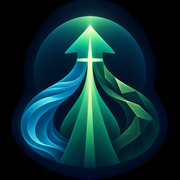
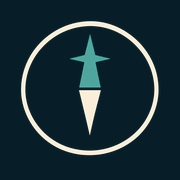
Actualizar Regla de Vida 2.0 con identidad católica

diff --git a/index.html b/index.html
@@ -24,12 +24,14 @@
     html,body{background:#071418}.app{background:radial-gradient(circle at 50% -8%,#113c49 0,#071418 30rem)}.hero{background:linear-gradient(145deg,#061116 0%,#0b3442 52%,#176b83 100%);box-shadow:0 24px 55px rgba(0,8,12,.48)}.hero:after{background:radial-gradient(circle,rgba(66,210,173,.26),transparent 67%)}.hero .eyebrow{color:#87e2d1}.focus{background:rgba(255,255,255,.075)}
     .way.t{background:linear-gradient(145deg,#155443,#2b9a73)}.way.u{background:linear-gradient(145deg,#155168,#2584aa)}.way.c{background:linear-gradient(145deg,#153f46,#347f77)}
     .primary{background:linear-gradient(135deg,#1b708e,#258fa8);box-shadow:0 10px 22px rgba(0,10,14,.34)}.secondary,.action,.combat,.card,input,textarea,select,.emergency-option{color:var(--ink)}.sub,.action small,.combat small,.empty,.date{color:var(--muted)}.navbtn.active{background:#113c45;color:#79d8cf}.bottom{background:rgba(7,20,24,.92);border-color:#1c3c42}.training{background:linear-gradient(145deg,#061116,#124551)}.training .eyebrow,.training dt{color:#80ddd0}.result{background:#102f2c;color:#dff8f1}.saved{background:#10342c;color:#8ee3c8}.timer-ring{background:conic-gradient(var(--blue2) var(--progress,0%),var(--surface2) 0)}.manual-body{color:#c8dcda}.sheet-panel{background:var(--bg)}.handle{background:#31545a}.toast{background:#0d3037}.settings{background:#12343b;color:#d9f4f1}.tag{color:#a9c2c0}
+    .skip{position:fixed;left:12px;top:12px;z-index:200;transform:translateY(-160%);background:#fff;color:#071418;padding:10px 14px;border-radius:10px;font-weight:800}.skip:focus{transform:none}
   </style>
 </head>
 <body>
+<a class="skip" href="#today">Saltar al contenido</a>
 <div class="app">
   <section class="screen active" id="today">
-    <div class="topline"><span class="brand">Regla de Vida</span><button class="settings" aria-label="Editar mi frente" onclick="openSheet('setup')">✦</button></div>
+    <div class="topline"><span class="brand">Regla de Vida</span><button class="settings" aria-label="Editar mi frente" onclick="openSheet('setup')">✎</button></div>
     <article class="card hero"><div class="eyebrow">Tu siguiente paso</div><h1>Ahora</h1><p>Una sola batalla. Una sola respuesta buena.</p><div class="focus"><small>Frente actual</small><strong id="todayFront">Sin elegir</strong><span id="todayVirtue">Elige el frente que quieres trabajar</span><button onclick="openSheet('setup')">Editar</button></div></article>
     <div class="section-title"><h2>Las tres vías</h2><span>¿Dónde estás?</span></div>
     <div class="ways"><button class="way t" onclick="openWay('tregua')"><small>I · SUELO</small><b>Tregua</b><span>Recuperar energía y margen</span></button><button class="way u" onclick="openWay('umbral')"><small>II · PUENTE</small><b>Umbral</b><span>Pasar de saber a hacer</span></button><button class="way c" onclick="openWay('combate')"><small>III · FRENTE</small><b>Combate</b><span>Formar virtud ante el patrón</span></button></div>
@@ -64,15 +66,15 @@
   <section class="screen" id="manual">
     <div class="topline"><span class="brand">Manual</span><span class="date">Comprender mejor</span></div><h1>Conocimiento</h1><p class="sub">La explicación está aquí cuando la necesites. La práctica diaria no depende de leerlo todo.</p><input class="search" id="manualSearch" type="search" placeholder="Buscar: acedia, descanso, ira…" aria-label="Buscar en el manual">
     <div id="manualContent">
-      <details class="card manual-section" data-search="tregua descanso cansancio recuperación evasión sueño"><summary>Tregua · descanso y recuperación</summary><div class="manual-body"><span class="tag">Regla</span><span class="tag">Fundamentos</span><h3>Descansar no es simplemente no trabajar</h3><p>Descansar es darle a cada parte la pausa que necesita. La fatiga física pide recuperación corporal; la cognitiva, menos carga; la emocional, procesar y ordenar; la espiritual, sentido, silencio y orientación.</p><h3>Descanso real y evasión</h3><p>La prueba es sencilla: el descanso real deja más claridad o más presencia. La evasión suele dejar dispersión, anestesia o necesidad de seguir consumiendo estímulos.</p><h3>Los cuatro mecanismos</h3><p>Desconexión psicológica, relajación, maestría y control. También existe el descanso gratuito: familia, juego, paseo, lectura, conversación, oración y contemplación no necesitan justificarse por el rendimiento posterior.</p><h3>Sueño y ciencia</h3><p>La regularidad, la luz diurna, la cafeína tardía, el alcohol, la rumia y el contenido activante de las pantallas pueden influir. Estas explicaciones ayudan a comprender, pero no forman parte del recorrido diario de la Regla.</p></div></details>
-      <details class="card manual-section" data-search="umbral procrastinación fricción emoción sobrecarga akrasia acedia cinco minutos"><summary>Umbral · las seis capas</summary><div class="manual-body"><span class="tag">Diagnóstico</span><span class="tag">Acción</span><h3>La distancia entre saber y hacer</h3><p>El Umbral no busca que aparezcan ganas. Traduce una intención en el primer gesto visible mediante tres movimientos: ofrecer, nombrar y empezar.</p><h3>Las seis capas</h3><p><strong>Fricción:</strong> hay demasiados pasos previos. <strong>Regulación emocional:</strong> evitas la emoción que despierta la tarea. <strong>Descuento temporal:</strong> el alivio inmediato pesa más que el bien futuro. <strong>Sobrecarga:</strong> hay demasiadas cosas abiertas. <strong>Akrasia:</strong> eliges contra tu propio juicio. <strong>Acedia:</strong> aparece tristeza o hastío ante un bien espiritual o significativo.</p><h3>Por qué cinco minutos</h3><p>Reduce la amenaza percibida y convierte una abstracción en movimiento. No obliga a terminar: rompe la inmovilidad y permite que la acción preceda al ánimo.</p></div></details>
+      <details class="card manual-section" data-search="tregua descanso cansancio recuperación evasión sueño fe oración sacramentos"><summary>Tregua · descanso y recuperación</summary><div class="manual-body"><span class="tag">Regla</span><span class="tag">Fundamentos</span><h3>Descansar no es simplemente no trabajar</h3><p>Descansar es darle a cada parte la pausa que necesita. La fatiga física pide recuperación corporal; la cognitiva, menos carga; la emocional, procesar y ordenar; la sequedad en la fe, volver a Dios con una oración sencilla y una vida sacramental cuidada.</p><h3>Descanso real y evasión</h3><p>La prueba es sencilla: el descanso real deja más claridad o más presencia. La evasión suele dejar dispersión, anestesia o necesidad de seguir consumiendo estímulos.</p><h3>Descanso cristiano</h3><p>La familia, el juego, el paseo, la lectura, la conversación y la oración tienen valor propio. El domingo ordena el descanso hacia Dios, la Eucaristía, la comunidad y las personas que tenemos cerca.</p><h3>Sueño y ciencia</h3><p>La regularidad, la luz diurna, la cafeína tardía, el alcohol, la rumia y el contenido activante de las pantallas pueden influir. Estas explicaciones ayudan a comprender, pero no forman parte del recorrido diario de la Regla.</p></div></details>
+      <details class="card manual-section" data-search="umbral procrastinación fricción emoción sobrecarga akrasia acedia cinco minutos"><summary>Umbral · las seis capas</summary><div class="manual-body"><span class="tag">Diagnóstico</span><span class="tag">Acción</span><h3>La distancia entre saber y hacer</h3><p>El Umbral no busca que aparezcan ganas. Traduce una intención en el primer gesto visible mediante tres movimientos: ofrecer a Dios, nombrar y empezar.</p><h3>Las seis capas</h3><p><strong>Fricción:</strong> hay demasiados pasos previos. <strong>Regulación emocional:</strong> evitas la emoción que despierta la tarea. <strong>Descuento temporal:</strong> el alivio inmediato pesa más que el bien futuro. <strong>Sobrecarga:</strong> hay demasiadas cosas abiertas. <strong>Akrasia:</strong> eliges contra tu propio juicio. <strong>Acedia:</strong> aparece tristeza o hastío ante el bien que Dios te pide vivir.</p><h3>Por qué cinco minutos</h3><p>Reduce la amenaza percibida y convierte una abstracción en movimiento. No obliga a terminar: rompe la inmovilidad y permite que la acción preceda al ánimo.</p></div></details>
       <details class="card manual-section" data-search="combate evagrio pensamientos tentación virtud deseo mentira"><summary>Combate · marco general</summary><div class="manual-body"><span class="tag">Tradición cristiana</span><h3>No es tu identidad</h3><p>El pensamiento aparece como un discurso que propone un bien verdadero por un camino falso. El primer trabajo es reconocerlo sin confundirlo con la propia naturaleza.</p><h3>Un frente y un arma</h3><p>El objetivo no es completar un calendario ni vigilar ocho defectos simultáneamente. Se permanece en un frente el tiempo necesario para formar una virtud mediante una respuesta principal y, como máximo, una o dos ayudas.</p><h3>Caída y continuidad</h3><p>La caída se reconoce, se repara si corresponde, se estudia y se abandona. Una caída no rompe la Regla; aprender a volver forma parte de ella.</p></div></details>
       <details class="card manual-section" data-search="gula apetito consuelo templanza comida"><summary>Gula · apetito y templanza</summary><div class="manual-body"><p><strong>Bien subyacente:</strong> alimento, consuelo, descanso y celebración. <strong>Mentira:</strong> «esto me dará ahora lo que necesito». <strong>Virtud:</strong> templanza agradecida. El orden de la hora, la atención y la acción de gracias suelen ser más importantes que una vigilancia obsesiva de cantidades.</p></div></details>
       <details class="card manual-section" data-search="ira justicia fuerza mansedumbre rencor"><summary>Ira · fuerza y mansedumbre</summary><div class="manual-body"><p><strong>Bien subyacente:</strong> justicia y protección. <strong>Mentira:</strong> «si no reacciono ahora, cedo». <strong>Virtud:</strong> mansedumbre, que gobierna la fuerza para que proteja en lugar de herir. La dilación de la respuesta es el arma principal.</p></div></details>
       <details class="card manual-section" data-search="lujuria comunión intimidad castidad"><summary>Lujuria · comunión y castidad</summary><div class="manual-body"><p><strong>Bien subyacente:</strong> intimidad, belleza y comunión. <strong>Mentira:</strong> «puedo tomar el placer sin recibir a la persona». <strong>Virtud:</strong> castidad como integración del deseo en el amor. La ocasión se corta pronto; no se negocia en pleno impulso.</p></div></details>
       <details class="card manual-section" data-search="avaricia seguridad posesión generosidad"><summary>Avaricia · seguridad y generosidad</summary><div class="manual-body"><p><strong>Bien subyacente:</strong> seguridad y previsión. <strong>Mentira:</strong> «estaré seguro cuando tenga suficiente bajo mi control». <strong>Virtud:</strong> generosidad confiada. Dar algo concreto rompe la ilusión de que la vida depende de acumular.</p></div></details>
       <details class="card manual-section" data-search="tristeza pérdida duelo esperanza"><summary>Tristeza · pérdida y esperanza</summary><div class="manual-body"><p>Hay una tristeza legítima que acompaña al duelo y otra que se instala alrededor del deseo frustrado, la rumia y la autocompasión. La depresión clínica no es un vicio y requiere ayuda profesional. La virtud buscada es una esperanza capaz de llorar sin quedar encerrada.</p></div></details>
-      <details class="card manual-section" data-search="acedia hastío bien estabilidad perseverancia"><summary>Acedia · sentido y perseverancia</summary><div class="manual-body"><p><strong>Bien subyacente:</strong> descanso, libertad y alegría. <strong>Mentira:</strong> «este bien no merece el esfuerzo» o «en otro lugar estaría vivo». <strong>Virtud:</strong> perseverancia con sentido. Permanecer, ofrecer la obra y recuperar el para quién son sus respuestas principales.</p></div></details>
+      <details class="card manual-section" data-search="acedia hastío bien estabilidad perseverancia fidelidad"><summary>Acedia · fidelidad y perseverancia</summary><div class="manual-body"><p><strong>Bien subyacente:</strong> descanso, libertad y alegría. <strong>Mentira:</strong> «este bien no merece el esfuerzo» o «en otro lugar estaría vivo». <strong>Virtud:</strong> perseverancia fiel. Permanecer, ofrecer la obra a Cristo y recordar a quién sirves son sus respuestas principales.</p></div></details>
       <details class="card manual-section" data-search="vanagloria mirada reconocimiento humildad oculto"><summary>Vanagloria · reconocimiento y verdad</summary><div class="manual-body"><p><strong>Bien subyacente:</strong> ser amado y contar para alguien. <strong>Mentira:</strong> «valgo si me ven y me aprueban». <strong>Virtud:</strong> libertad interior y humildad. Hacer un bien oculto educa el deseo para recibir la mirada de Dios.</p></div></details>
       <details class="card manual-section" data-search="soberbia grandeza autosuficiencia humildad gratitud"><summary>Soberbia · grandeza y humildad</summary><div class="manual-body"><p><strong>Bien subyacente:</strong> grandeza y fecundidad. <strong>Mentira:</strong> «lo que soy procede de mí y no necesito a nadie». <strong>Virtud:</strong> humildad como verdad. La acción de gracias devuelve cada don a su origen y desarma la autosuficiencia.</p></div></details>
     </div>
@@ -81,19 +83,19 @@
 </div>
 
 <nav class="bottom" aria-label="Navegación principal">
-  <button class="navbtn active" data-screen="today" onclick="showScreen('today')"><svg viewBox="0 0 24 24" fill="none" stroke="currentColor" stroke-width="2"><path d="M3 11.5 12 4l9 7.5M5.5 10v9h13v-9M9 19v-5h6v5"/></svg>Hoy</button>
+  <button class="navbtn active" data-screen="today" aria-current="page" onclick="showScreen('today')"><svg viewBox="0 0 24 24" fill="none" stroke="currentColor" stroke-width="2"><path d="M3 11.5 12 4l9 7.5M5.5 10v9h13v-9M9 19v-5h6v5"/></svg>Hoy</button>
   <button class="navbtn" data-screen="ways" onclick="showScreen('ways')"><svg viewBox="0 0 24 24" fill="none" stroke="currentColor" stroke-width="2"><path d="m5 19 4-14 6 14M7 13h6M17 5v14M14 8h6"/></svg>Vías</button>
   <button class="navbtn" data-screen="review" onclick="showScreen('review')"><svg viewBox="0 0 24 24" fill="none" stroke="currentColor" stroke-width="2"><path d="M4 5h16v14H4zM8 9h8M8 13h5"/></svg>Revisión</button>
   <button class="navbtn" data-screen="manual" onclick="showScreen('manual')"><svg viewBox="0 0 24 24" fill="none" stroke="currentColor" stroke-width="2"><path d="M4 5.5A2.5 2.5 0 0 1 6.5 3H20v16H6.5A2.5 2.5 0 0 0 4 21V5.5Z"/><path d="M4 19.5A2.5 2.5 0 0 1 6.5 17H20"/></svg>Manual</button>
 </nav>
 
-<div class="sheet" id="sheet"><div class="scrim" onclick="closeSheet()"></div><div class="sheet-panel"><div class="handle"></div><div id="sheetBody"></div></div></div><div class="toast" id="toast"></div>
+<div class="sheet" id="sheet" aria-hidden="true"><div class="scrim" onclick="closeSheet()"></div><div class="sheet-panel" role="dialog" aria-modal="true" aria-label="Panel de Regla de Vida" tabindex="-1"><div class="handle"></div><div id="sheetBody"></div></div></div><div class="toast" id="toast" role="status" aria-live="polite"></div>
 
 <template id="setupTpl"><div class="sheet-head"><div><div class="eyebrow">Configuración personal</div><h2>Tu frente actual</h2></div><button class="close" onclick="closeSheet()">×</button></div><p class="sub">No es una etiqueta sobre ti. Es el lugar donde quieres formar una virtud ahora.</p><label>Frente</label><select id="setupFront"></select><label>Arma principal</label><input id="setupWeapon" placeholder="Una práctica concreta"><label>Pregunta para detectarlo</label><input id="setupQuestion" placeholder="Una pregunta breve"><button class="primary" style="margin-top:18px" onclick="saveSetup()">Guardar mi frente</button></template>
 
 <template id="emergencyTpl"><div class="sheet-head"><div><div class="eyebrow">Ayuda inmediata</div><h2>¿Qué está pasando?</h2></div><button class="close" onclick="closeSheet()">×</button></div><div class="emergency-list" id="emergencyList"></div><div class="emergency-result" id="emergencyResult"><button class="backlink" onclick="resetEmergency()">← Volver</button><article class="card"><div class="eyebrow" id="erWay"></div><h2 id="erTitle"></h2><p id="erText"></p><div class="result"><strong>Haz esto ahora</strong><span id="erAction"></span></div></article><button class="primary" onclick="closeSheet()">Ya sé cuál es el siguiente paso</button></div></template>
 
-<template id="treguaTpl"><div class="sheet-head"><div><div class="eyebrow" style="color:var(--mint)">I · La Tregua</div><h2>¿Qué tienes cansado?</h2></div><button class="close" onclick="closeSheet()">×</button></div><p class="sub">Elige la parte que más necesita margen ahora.</p><div class="chipset" id="fatigueChips"><button class="chip" data-fatigue="body">El cuerpo</button><button class="chip" data-fatigue="mind">La cabeza</button><button class="chip" data-fatigue="emotion">Las emociones</button><button class="chip" data-fatigue="spirit">El sentido</button></div><div id="fatigueResult"></div><div class="card" style="margin-top:18px"><div class="eyebrow">Tu regla mínima</div><p><strong>Rito de cierre:</strong> «Doy el día por terminado: lo que he hecho y lo que no he podido hacer».</p><p style="margin-bottom:0"><strong>Prueba:</strong> si el descanso te deja más disperso, probablemente fue evasión.</p></div></template>
+<template id="treguaTpl"><div class="sheet-head"><div><div class="eyebrow" style="color:var(--mint)">I · La Tregua</div><h2>¿Qué tienes cansado?</h2></div><button class="close" onclick="closeSheet()">×</button></div><p class="sub">Elige la parte que más necesita margen ahora.</p><div class="chipset" id="fatigueChips"><button class="chip" data-fatigue="body">El cuerpo</button><button class="chip" data-fatigue="mind">La cabeza</button><button class="chip" data-fatigue="emotion">Las emociones</button><button class="chip" data-fatigue="spirit">La vida de fe</button></div><div id="fatigueResult"></div><div class="card" style="margin-top:18px"><div class="eyebrow">Tu regla mínima</div><p><strong>Oración de cierre:</strong> «Señor, pongo en tus manos lo que he hecho y lo que hoy no he podido hacer».</p><p style="margin-bottom:0"><strong>Prueba:</strong> si el descanso te deja más disperso, probablemente fue evasión.</p></div></template>
 
 <template id="umbralTpl"><div class="sheet-head"><div><div class="eyebrow">II · El Umbral</div><h2>Ofrecer · nombrar · empezar</h2></div><button class="close" onclick="closeSheet()">×</button></div><div class="card protocol"><div class="step"><span class="n">1</span><div><strong>Ofrecer</strong><p>«Señor, este trabajo es para Ti y para los míos».</p></div></div><div class="step"><span class="n">2</span><div><strong>Nombrar</strong><p>Escribe el primer gesto visible.</p></div></div><input id="nextAction" placeholder="Ahora hago…"><div class="step"><span class="n">3</span><div><strong>Empezar</strong><p>No tienes que terminar. No tienes que tener ganas.</p></div></div><button class="primary" onclick="startTimer()">Empezar cinco minutos</button></div><div class="timer" id="timerBox" hidden><div class="timer-ring" id="timerRing"><span class="timer-time" id="timerTime">05:00</span></div><p class="sub" style="margin-top:15px">Permanece solo en el siguiente gesto.</p><button class="secondary" onclick="stopTimer()">Detener</button></div><details class="card manual-section"><summary>Si sigo bloqueado</summary><div class="manual-body"><p><strong>Fricción:</strong> prepara el material. <strong>Emoción:</strong> acepta hacerlo incómodo o imperfecto. <strong>Sobrecarga:</strong> descarga y elige una cosa. <strong>Descuento temporal:</strong> retira la evasión. <strong>Akrasia:</strong> actúa según el bien que ya reconoces. <strong>Acedia:</strong> recupera el para quién y permanece.</p></div></details></template>
 
@@ -106,7 +108,7 @@ const fronts={
   lujuria:{name:'Lujuria',virtue:'Castidad',good:'Intimidad, belleza y comunión',lie:'Puedo tomar el placer sin recibir a la persona',weapon:'Cortar pronto la ocasión',question:'¿Estoy buscando comunión o consumo?',response:'Sal de la ocasión y orienta el deseo hacia una relación real.'},
   avaricia:{name:'Avaricia',virtue:'Generosidad confiada',good:'Seguridad y previsión',lie:'Estaré seguro cuando tenga suficiente bajo mi control',weapon:'Dar algo concreto',question:'¿Estoy administrando o intentando asegurarme solo?',response:'Agradece lo recibido y realiza un acto concreto de generosidad.'},
   tristeza:{name:'Tristeza',virtue:'Esperanza',good:'Duelo, memoria y deseo de un bien',lie:'Lo perdido define todo lo que queda',weapon:'Nombrar la pérdida sin alimentar la rumia',question:'¿Estoy llorando un bien o construyendo una casa dentro de la pérdida?',response:'Expresa la pena, busca compañía y vuelve a un bien posible hoy.'},
-  acedia:{name:'Acedia',virtue:'Perseverancia con sentido',good:'Descanso, libertad y alegría',lie:'Este bien no merece el esfuerzo; en otro lugar estaría vivo',weapon:'Permanecer y ofrecer la obra',question:'¿Estoy cansado de verdad o triste ante el bien que me corresponde?',response:'Recupera el para quién y permanece cinco minutos.'},
+  acedia:{name:'Acedia',virtue:'Perseverancia fiel',good:'Descanso, libertad y alegría',lie:'Este bien no merece el esfuerzo; en otro lugar estaría vivo',weapon:'Permanecer y ofrecer la obra a Cristo',question:'¿Estoy cansado de verdad o huyendo del bien que Dios me pide?',response:'Haz la señal de la cruz, recuerda a quién sirves y permanece cinco minutos.'},
   vanagloria:{name:'Vanagloria',virtue:'Libertad interior',good:'Ser amado y contar para alguien',lie:'Valgo si me ven y me aprueban',weapon:'Hacer un bien oculto',question:'¿Haría esto igual si nadie fuera a saberlo?',response:'Haz el bien sin contarlo y recibe tu identidad de la mirada de Dios.'},
   soberbia:{name:'Soberbia',virtue:'Humildad',good:'Grandeza y fecundidad',lie:'Lo que soy procede de mí y no necesito a nadie',weapon:'Dar gracias por el don concreto',question:'¿Qué tengo que no haya recibido?',response:'Agradece, pide ayuda o recibe una corrección sin justificarte.'}
 };
@@ -120,12 +122,13 @@ const emergencies=[
   {title:'He vuelto a caer',way:'Volver',text:'Una caída no rompe la Regla.',action:'Reconoce. Repara si corresponde. Aprende el desencadenante. Vuelve a la siguiente acción buena.'},
   {title:'Repito siempre el mismo patrón',way:'Combate',text:'La repetición señala un frente, no el fracaso de toda tu vida.',action:'Nombra el pensamiento, la mentira y una única arma principal.'}
 ];
-const fatigue={body:{title:'Fatiga física',text:'El cuerpo pide menos carga y recuperación corporal.',action:'Come, hidrátate, camina suavemente o protege un descanso real. No lo conviertas en un juicio moral.'},mind:{title:'Fatiga cognitiva',text:'La cabeza necesita dejar de procesar.',action:'Quince minutos sin pantalla ni información: caminar, silencio o una tarea sencilla con las manos.'},emotion:{title:'Fatiga emocional',text:'Hay algo que necesita ser nombrado y ordenado.',action:'Escribe qué sientes, habla con alguien o deja de exponerte por un rato a lo que te remueve.'},spirit:{title:'Fatiga espiritual',text:'No falta energía: falta orientación o sentido.',action:'Haz silencio, reza brevemente y pregunta para quién es el siguiente bien que te corresponde.'}};
-let state=JSON.parse(localStorage.getItem('reglaApp')||'{}');let timer=null;let seconds=300;let selectedCombat=state.front||'ira';
-function persist(){localStorage.setItem('reglaApp',JSON.stringify(state))}
-function showScreen(id){document.querySelectorAll('.screen').forEach(x=>x.classList.toggle('active',x.id===id));document.querySelectorAll('.navbtn').forEach(x=>x.classList.toggle('active',x.dataset.screen===id));scrollTo(0,0);if(id==='review')renderHistory()}
-function openSheet(type){const sheet=document.getElementById('sheet'),body=document.getElementById('sheetBody'),tpl=document.getElementById(type+'Tpl');body.innerHTML='';body.appendChild(tpl.content.cloneNode(true));sheet.classList.add('open');document.body.style.overflow='hidden';if(type==='setup')renderSetup();if(type==='emergency')renderEmergency()}
-function closeSheet(){document.getElementById('sheet').classList.remove('open');document.body.style.overflow='';stopTimer(true)}
+const fatigue={body:{title:'Fatiga física',text:'El cuerpo pide menos carga y recuperación corporal.',action:'Come, hidrátate, camina suavemente o protege un descanso real. No lo conviertas en un juicio moral.'},mind:{title:'Fatiga cognitiva',text:'La cabeza necesita dejar de procesar.',action:'Quince minutos sin pantalla ni información: caminar, silencio o una tarea sencilla con las manos.'},emotion:{title:'Fatiga emocional',text:'Hay algo que necesita ser nombrado y ordenado.',action:'Escribe qué sientes, habla con alguien o deja de exponerte por un rato a lo que te remueve.'},spirit:{title:'Sequedad en la fe',text:'Cuesta rezar, recordar a Dios o vivir con esperanza.',action:'Haz la señal de la cruz, reza despacio un Padrenuestro y ofrece a Cristo el siguiente deber concreto. Si persiste, busca acompañamiento sacerdotal y los sacramentos.'}};
+function loadState(){try{const value=JSON.parse(localStorage.getItem('reglaApp')||'{}');return value&&typeof value==='object'&&!Array.isArray(value)?value:{}}catch(error){return {}}}
+let state=loadState();let timer=null;let seconds=300;let selectedCombat=fronts[state.front]?state.front:'ira';let previousFocus=null;
+function persist(){try{localStorage.setItem('reglaApp',JSON.stringify(state))}catch(error){toast('No se ha podido guardar en este dispositivo')}}
+function showScreen(id){if(!document.getElementById(id))return;document.querySelectorAll('.screen').forEach(x=>x.classList.toggle('active',x.id===id));document.querySelectorAll('.navbtn').forEach(x=>{const active=x.dataset.screen===id;x.classList.toggle('active',active);x.setAttribute('aria-current',active?'page':'false')});history.replaceState(null,'','#'+id);scrollTo(0,0);if(id==='review')renderHistory()}
+function openSheet(type){const sheet=document.getElementById('sheet'),body=document.getElementById('sheetBody'),tpl=document.getElementById(type+'Tpl');if(!tpl)return;previousFocus=document.activeElement;body.innerHTML='';body.appendChild(tpl.content.cloneNode(true));sheet.classList.add('open');sheet.setAttribute('aria-hidden','false');document.body.style.overflow='hidden';if(type==='setup')renderSetup();if(type==='emergency')renderEmergency();requestAnimationFrame(()=>sheet.querySelector('.sheet-panel').focus())}
+function closeSheet(){const sheet=document.getElementById('sheet');if(!sheet.classList.contains('open'))return;sheet.classList.remove('open');sheet.setAttribute('aria-hidden','true');document.body.style.overflow='';stopTimer(true);if(previousFocus&&previousFocus.focus)previousFocus.focus()}
 function openWay(type){openSheet(type);if(type==='tregua')bindFatigue();if(type==='combate')renderCombats()}
 function renderToday(){const f=fronts[state.front];document.getElementById('todayFront').textContent=f?f.name:'Sin elegir';document.getElementById('todayVirtue').textContent=f?'Virtud: '+f.virtue:'Elige el frente que quieres trabajar';document.getElementById('todayWeapon').textContent=state.weapon||(f?f.weapon:'Elige un frente para concretar una única práctica.');document.getElementById('todayQuestion').textContent=state.question||(f?f.question:'No necesitas trabajar todo a la vez.');document.getElementById('weaponLabel').textContent=f?'Arma principal · '+f.name:'Aún sin configurar'}
 function renderSetup(){const sel=document.getElementById('setupFront');sel.innerHTML='<option value="">Elegir…</option>'+Object.entries(fronts).map(([k,v])=>`<option value="${k}" ${state.front===k?'selected':''}>${v.name} · ${v.virtue}</option>`).join('');const f=fronts[state.front];document.getElementById('setupWeapon').value=state.weapon||(f?.weapon||'');document.getElementById('setupQuestion').value=state.question||(f?.question||'');sel.onchange=()=>{const x=fronts[sel.value];if(x){document.getElementById('setupWeapon').value=x.weapon;document.getElementById('setupQuestion').value=x.question}}}
@@ -152,7 +155,7 @@ window.addEventListener('appinstalled',()=>{installPrompt=null;document.getEleme
 async function installApp(){if(installPrompt){installPrompt.prompt();await installPrompt.userChoice;installPrompt=null;return}const ios=/iphone|ipad|ipod/i.test(navigator.userAgent);toast(ios?'En Safari: Compartir → Añadir a pantalla de inicio':'Abre el menú del navegador y elige Instalar aplicación')}
 if(window.matchMedia('(display-mode: standalone)').matches||navigator.standalone){document.getElementById('installBtn').hidden=true}
 if('serviceWorker' in navigator){window.addEventListener('load',()=>navigator.serviceWorker.register('./service-worker.js').catch(()=>{}))}
-document.addEventListener('keydown',e=>{if(e.key==='Escape')closeSheet()});renderToday();renderHistory();
+document.addEventListener('keydown',e=>{if(e.key==='Escape')closeSheet()});renderToday();renderHistory();const initialScreen=location.hash.slice(1);if(['today','ways','review','manual'].includes(initialScreen))showScreen(initialScreen);
 </script>
 </body>
 </html>

diff --git a/service-worker.js b/service-worker.js
@@ -1,4 +1,4 @@
-const CACHE = "regla-de-vida-v1";
+const CACHE = "regla-de-vida-v2";
 const ASSETS = [
   "./",
   "./index.html",
@@ -16,13 +16,20 @@ self.addEventListener("install", event => {
 
 self.addEventListener("activate", event => {
   event.waitUntil(
-    caches.keys().then(keys => Promise.all(keys.filter(key => key !== CACHE).map(key => caches.delete(key))))
+    caches.keys().then(keys => Promise.all(keys.filter(key => key !== CACHE).map(key => caches.delete(key)))).then(() => self.clients.claim())
   );
-  self.clients.claim();
 });
 
 self.addEventListener("fetch", event => {
   if (event.request.method !== "GET") return;
+  if (event.request.mode === "navigate") {
+    event.respondWith(fetch(event.request).then(response => {
+      const copy = response.clone();
+      caches.open(CACHE).then(cache => cache.put("./index.html", copy));
+      return response;
+    }).catch(() => caches.match("./index.html")));
+    return;
+  }
   event.respondWith(
     fetch(event.request)
       .then(response => {
@@ -30,6 +37,6 @@ self.addEventListener("fetch", event => {
         caches.open(CACHE).then(cache => cache.put(event.request, copy));
         return response;
       })
-      .catch(() => caches.match(event.request).then(hit => hit || caches.match("./index.html")))
+      .catch(() => caches.match(event.request))
   );
 });

diff --git a/README.md b/README.md
@@ -2,6 +2,13 @@
 
 Pack completo para publicar la aplicación en GitHub Pages e instalarla en un teléfono.
 
+## Versión 2.0
+
+- Nuevo icono sencillo: una brújula moderna que orienta la vida hacia el bien, en petróleo, marfil y verde agua.
+- Recuperación segura si el almacenamiento local contiene datos dañados.
+- Navegación y paneles más accesibles mediante teclado y lectores de pantalla.
+- Actualización más fiable de la aplicación instalada, conservando el funcionamiento sin conexión.
+
 ## Publicar en GitHub Pages
 
 1. Crea un repositorio nuevo en GitHub.
